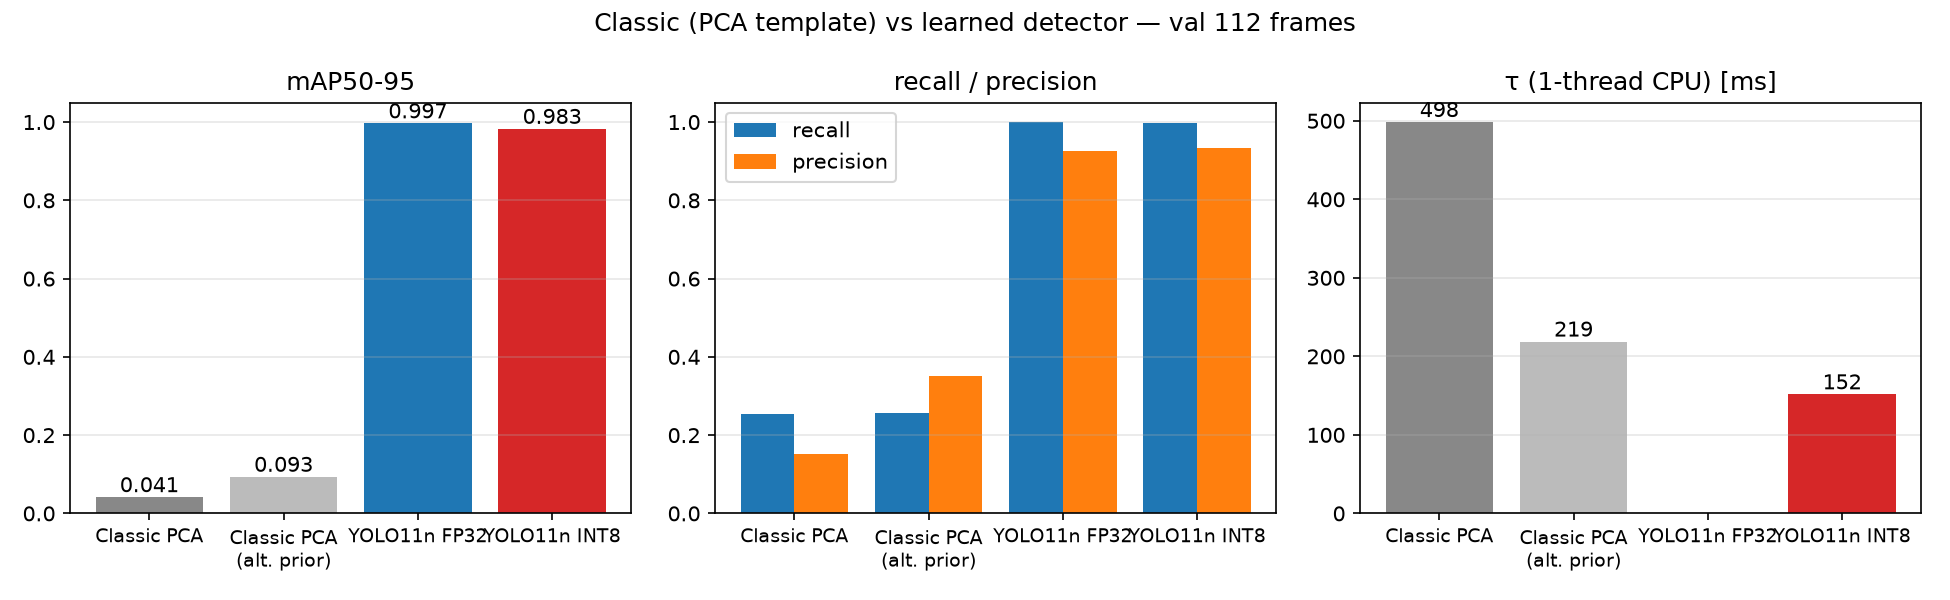
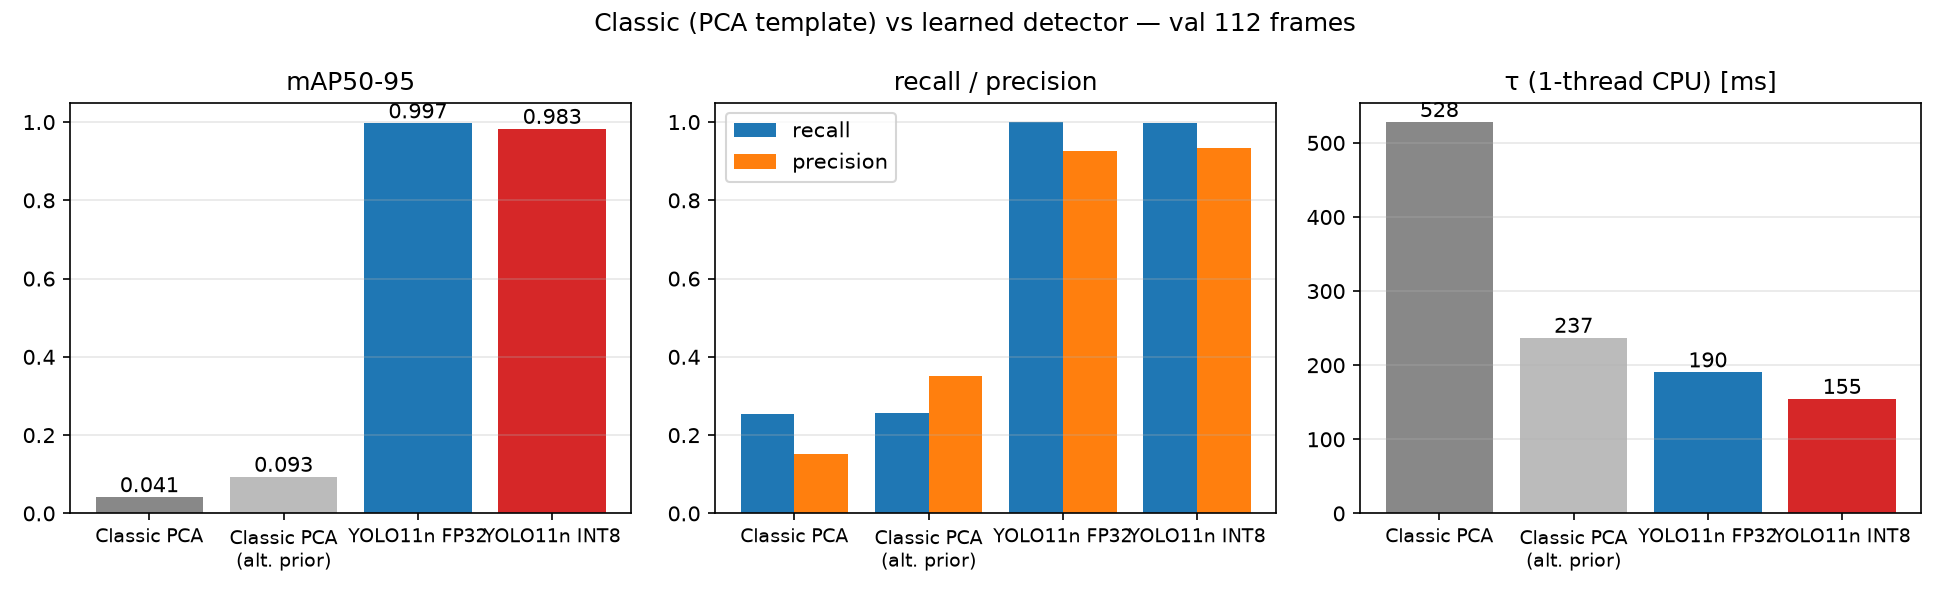
P7c: FP32 τ 벤치 추가 — slide_13a 빈 막대 채움, τ 재벤치값으로 문서 갱신
FP32 ONNX를 INT8과 같은 ORT CPU 1스레드 조건으로 벤치(190.4 ms).
재벤치 지터(고전 237.0, INT8 154.5 ms)를 classic_baseline·STATUS·qa_facts·
limitations·storyline에 반영, results_summary에 동일 벤치 τ 2행 추가.

Claude-Session: https://claude.ai/code/session_01K71fiea5fAWu6hYiG9h9E6

diff --git a/scripts/eval_classic.py b/scripts/eval_classic.py
@@ -78,6 +78,8 @@ def main() -> None:
     ap.add_argument("--dataset", default="data/dataset")
     ap.add_argument("--classic", default=None, help="기본 config classic.model")
     ap.add_argument("--fp32", default="runs/detect/runs/train/crater/weights/best.pt")
+    ap.add_argument("--fp32-onnx", default="runs/export/crater_fp32.onnx",
+                    help="FP32 τ 벤치용 ONNX (mAP는 --fp32, τ는 INT8과 같은 ORT CPU 조건)")
     ap.add_argument("--int8", default="runs/export/crater_int8_ort.onnx")
     ap.add_argument("--n-tau", type=int, default=None, help="τ 벤치 반복 (기본 bench.n_iter)")
     ap.add_argument("--out", default="results/p7c_det_compare.json")
@@ -141,6 +143,10 @@ def main() -> None:
     entries["classic_pca_prior"]["tau"] = _bench_tau(prior.detect, bench_imgs, warmup, n_iter)
     print(f"classic(prior) τ median={entries['classic_pca_prior']['tau']['median_s'] * 1e3:.1f} ms",
           flush=True)
+    ort_fp32 = Detector(args.fp32_onnx, cfg)
+    entries["yolo_fp32"]["tau"] = _bench_tau(ort_fp32.detect, bench_imgs, warmup, n_iter)
+    entries["yolo_fp32"]["tau_model"] = args.fp32_onnx   # mAP(.pt)와 τ(ONNX)의 모델 파일 구분
+    print(f"yolo fp32 τ median={entries['yolo_fp32']['tau']['median_s'] * 1e3:.1f} ms", flush=True)
     ort = Detector(args.int8, cfg)
     entries["yolo_int8"]["tau"] = _bench_tau(ort.detect, bench_imgs, warmup, n_iter)
     print(f"yolo int8 τ median={entries['yolo_int8']['tau']['median_s'] * 1e3:.1f} ms", flush=True)

diff --git a/scripts/make_slide_assets.py b/scripts/make_slide_assets.py
@@ -64,6 +64,10 @@ SUMMARY = [
     ("고전 PCA recall", "p7c_det_compare.json", "entries.classic_pca_prior.recall", "{:.3f}"),
     ("τ 고전 PCA [ms]", "p7c_det_compare.json",
      "entries.classic_pca_prior.tau.median_s", "{:.1f}", 1e3),
+    ("τ YOLO FP32 (동일 벤치) [ms]", "p7c_det_compare.json",
+     "entries.yolo_fp32.tau.median_s", "{:.1f}", 1e3),
+    ("τ YOLO INT8 (동일 벤치) [ms]", "p7c_det_compare.json",
+     "entries.yolo_int8.tau.median_s", "{:.1f}", 1e3),
     ("측정 σ 수평 [m] (고전)", "measurement_model_classic.json", "sigma_xyz_m[0]", "{:.1f}"),
     ("보정 오검출률 (고전)", "measurement_model_classic.json", "fp_rate_est", "{:.3f}"),
     ("CEP 고전 PCA [m]", "p7c_cep_compare.json", "conditions[label=classic_pca].cep_m", "{:.1f}"),

diff --git a/docs/classic_baseline.md b/docs/classic_baseline.md
@@ -31,14 +31,16 @@
 
 | 탐지기 | mAP50 | mAP50-95 | precision | recall | FP/frame | τ (1스레드 CPU) |
 |---|---|---|---|---|---|---|
-| 고전 PCA (전수 스케일) | 0.106 | 0.041 | 0.151 | 0.253 | 66.1 | 498.4 ms |
-| **고전 PCA (고도 사전정보)** | **0.242** | **0.093** | **0.350** | **0.256** | **22.1** | **218.8 ms** |
-| YOLO11n FP32 | 1.000 | 0.997 | 0.925 | 1.000 | 3.8 | — |
-| **YOLO11n INT8** | **0.998** | **0.983** | **0.933** | **0.999** | **3.4** | **151.6 ms** |
+| 고전 PCA (전수 스케일) | 0.106 | 0.041 | 0.151 | 0.253 | 66.1 | 528.2 ms |
+| **고전 PCA (고도 사전정보)** | **0.242** | **0.093** | **0.350** | **0.256** | **22.1** | **237.0 ms** |
+| YOLO11n FP32 | 1.000 | 0.997 | 0.925 | 1.000 | 3.8 | 190.4 ms |
+| **YOLO11n INT8** | **0.998** | **0.983** | **0.933** | **0.999** | **3.4** | **154.5 ms** |
 
+- FP32의 τ는 FP32 ONNX(runs/export/crater_fp32.onnx)를 INT8과 같은 ORT CPU 1스레드
+  조건으로 잰 값(mAP는 .pt와 동일 가중치). τ 벤치는 재실행 간 수 % 지터가 있다.
 - 고전 방식은 mAP50-95에서 **10배 이상 낮다**(0.093 vs 0.983). 재현율 0.26 — 카탈로그
   D ≥ 1 km 크레이터의 4분의 1만 잡는다.
-- 고도 사전정보를 주면 mAP50이 0.106 → 0.242로 오르고 τ가 498 → 219 ms로 절반 이하가 된다.
+- 고도 사전정보를 주면 mAP50이 0.106 → 0.242로 오르고 τ가 528 → 237 ms로 절반 이하가 된다.
   **미세 스케일 전수 탐색이 비용의 대부분이자 오검출의 대부분**이라는 뜻이다.
 
 ### 왜 고전 방식이 더 느린가 (x86 기준)
@@ -66,6 +68,9 @@ RTG4급 FPGA(SLIM의 실제 환경)에서는 상관·내적이 DSP 블록에 그
 | 고전 PCA | 고전 | 218.8 ms | **664.4** | [605.1, 753.2] | 0.834 |
 | 고전 통계 + YOLO τ | 고전 | 151.6 ms | 664.4 | [616.4, 759.8] | 0.834 |
 | YOLO 통계 + 고전 τ | YOLO | 218.8 ms | 126.6 | [105.0, 142.2] | 0.883 |
+
+(표의 τ는 CEP MC에 입력된 당시 벤치값. 이후 FP32 τ 추가를 위한 재벤치에서 237.0/154.5 ms로
+수 % 지터가 있었으나, 아래 τ 스왑 결과가 보여주듯 이 수준의 τ 차이는 CEP에 들어오지 않는다.)
 
 **핵심**: τ를 서로 바꿔 넣어도 CEP는 소수점까지 변하지 않는다. 두 τ(152 ms, 219 ms)가 모두
 프레임 주기(1 s)보다 작아 지연 보상이 완전히 흡수하기 때문이다. CEP를 5.2배 가르는 것은

diff --git a/docs/storyline.md b/docs/storyline.md
@@ -29,7 +29,7 @@
 | 13 | SLIM 정합성 (plausibility) | 측정 성공률 0.98 vs 14/14, σ수평 ≈85 m=GSD 대비 수 px, CEP 110.8 m vs ~10 m — 자리수·경향 비교(검증 아님, 센서·자유도 다름) | p7_slim_comparison.json |
 | 14 | 한계·10월 계획 | 무제약 ZEM/ZEV, IMU 바이어스 없음(통계 111 vs 실런 198 갭), 시간상관 미모델, n=200(본실험 500), 최근접 연관, FPGA τ 정밀화 | docs/limitations.md |
 | 15 | 결론 | 주장 재진술 + 기여 3 + 재현성(모든 수치 results/*.json, 결정론 시드) | — |
-| 백업 | **고전 vs AI 베이스라인**: 같은 val·같은 지표에서 mAP50-95 0.093 vs 0.983, τ 218.8 vs 151.6 ms, 측정 σ수평 460 vs 88 m → **CEP 664.4 vs 126.6 m(5.2배)**. τ를 서로 바꿔도 CEP 불변(둘 다 주기 1 s 미만) — "mAP 격차가 착륙에서 얼마인지는 폐루프로만 답한다"의 직접 증거. x86 조건부 τ 순위임을 캡션에 명기 | figs/slides/slide_13a_classic_det.png, slide_13b_classic_cep.png, p7c_det_compare.json, p7c_cep_compare.json, docs/classic_baseline.md |
+| 백업 | **고전 vs AI 베이스라인**: 같은 val·같은 지표에서 mAP50-95 0.093 vs 0.983, τ 237.0 vs 154.5 ms(FP32 190.4), 측정 σ수평 460 vs 88 m → **CEP 664.4 vs 126.6 m(5.2배)**. τ를 서로 바꿔도 CEP 불변(둘 다 주기 1 s 미만) — "mAP 격차가 착륙에서 얼마인지는 폐루프로만 답한다"의 직접 증거. x86 조건부 τ 순위임을 캡션에 명기 | figs/slides/slide_13a_classic_det.png, slide_13b_classic_cep.png, p7c_det_compare.json, p7c_cep_compare.json, docs/classic_baseline.md |
 | 백업 | ΔV 1109.5 m/s(팀원 질량 산정 입력), 일반화 test(고지대 mAP 갭), 게이트 디버그 사슬, CoreMark 34,876/40,654 DMIPS 상세 | p7b_deltav.json, p5_det_highlands.json, p7b_cpu_bench.json |
 
 발표 시간이 짧으면: 7↔8 병합, 13을 백업으로 강등, 4를 3에 흡수.

diff --git a/docs/STATUS.md b/docs/STATUS.md
@@ -102,9 +102,10 @@
   p7c_pnp_error_hist.png, figs/slides/slide_13a·13b, docs/classic_baseline.md,
   runs/classic/pca_crater{,_prior}.npz(비커밋).
 - 핵심 수치(val 112프레임 / MC n=200·직렬·보상 on):
-  - 탐지: 고전(고도 사전정보) mAP50-95 **0.093**·recall 0.256·τ **218.8 ms**
-    vs YOLO11n INT8 **0.983**·0.999·**151.6 ms**. 사전정보 없는 전수 스케일은
-    mAP50 0.106·τ 498.4 ms — 미세 스케일 탐색이 비용·오검출의 대부분.
+  - 탐지: 고전(고도 사전정보) mAP50-95 **0.093**·recall 0.256·τ **237.0 ms**
+    vs YOLO11n INT8 **0.983**·0.999·**154.5 ms**(FP32 ONNX 동일 벤치 190.4 ms).
+    사전정보 없는 전수 스케일은 mAP50 0.106·τ 528.2 ms — 미세 스케일 탐색이
+    비용·오검출의 대부분. (τ는 FP32 추가 재벤치값, 재실행 간 수 % 지터)
   - 측정: σ수평 460.4 m vs 87.9 m, 오검출률 0.151 vs 0.101, PnP 유효율 0.921 vs 0.980.
   - **CEP 664.4 m [605, 753] vs 126.6 m [105, 143] — 5.2배.** τ를 서로 바꿔도 CEP 불변
     (둘 다 프레임 주기 1 s 미만 → 보상이 흡수). 계열 격차는 지연이 아니라 측정 품질로 들어온다.

diff --git a/docs/limitations.md b/docs/limitations.md
@@ -78,7 +78,7 @@ CEP는 "해당 유도 법칙 하에서의" 조건부 수치이고, 제약을 포
 - **고전 베이스라인은 계열 비교용 자체 구현**: `perception/classic.py`(PCA 외형 기저 +
   Fisher 판별)는 SLIM이 쓴 방식의 근사이며 numpy/OpenCV FP32 구현이다. SLIM 실기의
   FPGA 고정소수점 파이프라인·삼각형 유사 매칭(TSM)은 포함하지 않으므로, 여기 τ·mAP를
-  SLIM의 성능으로 읽으면 안 된다. 또한 τ 순위(고전 219 ms > YOLO INT8 152 ms)는
+  SLIM의 성능으로 읽으면 안 된다. 또한 τ 순위(고전 237 ms > YOLO FP32 190 ms > INT8 155 ms)는
   x86 + 최적화된 DL 런타임이라는 **조건부**이며, NPU가 없는 RTG4급에서는 뒤집힐 수 있다.
   파라미터 3안 비교와 근거는 docs/classic_baseline.md §5.
 - **구동기 이상화**: 추력 명령 즉시 실현(짐벌 동역학·추력 편향·시상수 없음),

diff --git a/docs/qa_facts.md b/docs/qa_facts.md
@@ -72,7 +72,8 @@
   500 ms 349.5 m·게이트 붕괴. 카메라 5 Hz에서 n INT8(48.7 m, 드롭0) vs n FP32(65.7 m,
   드롭50%) CI 분리 — 보상 켠 채 양자화가 CEP를 가름. (p7b_jitter_sweep.json, p7b_rate_sweep.json)
 - 고전 베이스라인(PCA 외형 기저 템플릿, SLIM 계열 비DL 근사) 비교: 같은 val·같은 지표
-  구현에서 mAP50-95 0.093 vs YOLO INT8 0.983, recall 0.256 vs 0.999, τ 218.8 vs 151.6 ms.
+  구현에서 mAP50-95 0.093 vs YOLO INT8 0.983, recall 0.256 vs 0.999, τ 237.0 vs 154.5 ms
+  (FP32 ONNX 동일 벤치 190.4 ms).
   측정 σ수평 460 vs 88 m·오검출률 0.151 vs 0.101 → **CEP 664.4 m vs 126.6 m(5.2배)**.
   τ를 서로 바꿔 넣어도 CEP 불변(둘 다 프레임 주기 1 s 미만 → 보상이 흡수) — 계열 격차는
   지연이 아니라 측정 품질로 들어온다. (p7c_det_compare, p7c_cep_compare, docs/classic_baseline.md)
